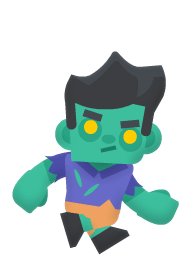
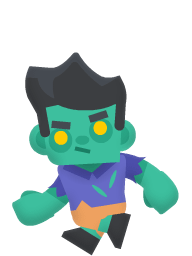
Añadido movimiento al zombie

diff --git a/Test Game/TestGame.py b/Test Game/TestGame.py
@@ -17,6 +17,7 @@ ground_surface = pygame.image.load("graphics/Ground.png")
 text_surface = test_font.render("Rugsoft", True, "Black")
 
 zombi_surface = pygame.image.load("graphics/zombie/zombie_run1.png")
+zombie_x_pos = 1300
 
 while True:
     for event in pygame.event.get():
@@ -27,7 +28,9 @@ while True:
     screen.blit(sky_surface, (0,0))
     screen.blit(ground_surface, (0, 575))   
     screen.blit(text_surface, (525, 50))
-    screen.blit(zombi_surface,(0, 349))
+    zombie_x_pos -= 3
+    if zombie_x_pos < -200: zombie_x_pos = 1400
+    screen.blit(zombi_surface,(zombie_x_pos, 349))
     
     pygame.display.update()
     clock.tick(fps)
